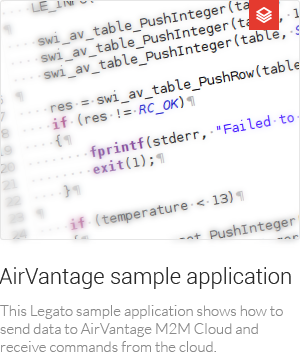
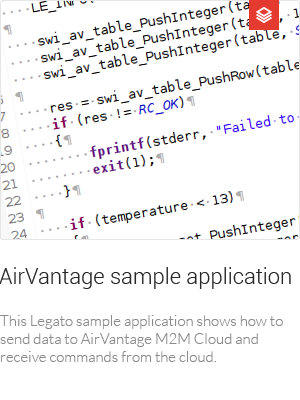
Update links for Application Framework
Adding 2 separated links "repository" and "documentation" for
Application Framework thumb and editing consequently all other thumbs

diff --git a/sierra-wireless_legato_github.html b/sierra-wireless_legato_github.html
@@ -19,7 +19,11 @@
         <div id="repositories">
         	<h2>Repositories</h2>
             <div class="repository">
-            	<a href="#repository_legato"><img src="repository_legato.png" /></a>
+            	<img src="repository_legato.png" usemap="#links" border="0" />
+                <map name="links" id="links">
+                  <area shape="rect" coords="0,294,69,311" href="#legato_airvantage" />
+                  <area shape="rect" coords="79,294,182,312" href="http://doxygen" target="_blank" />
+                </map>
             </div>
             <div class="repository">
             	<a href="#repository_hello-world"><img src="repository_hello-world.png" /></a>
